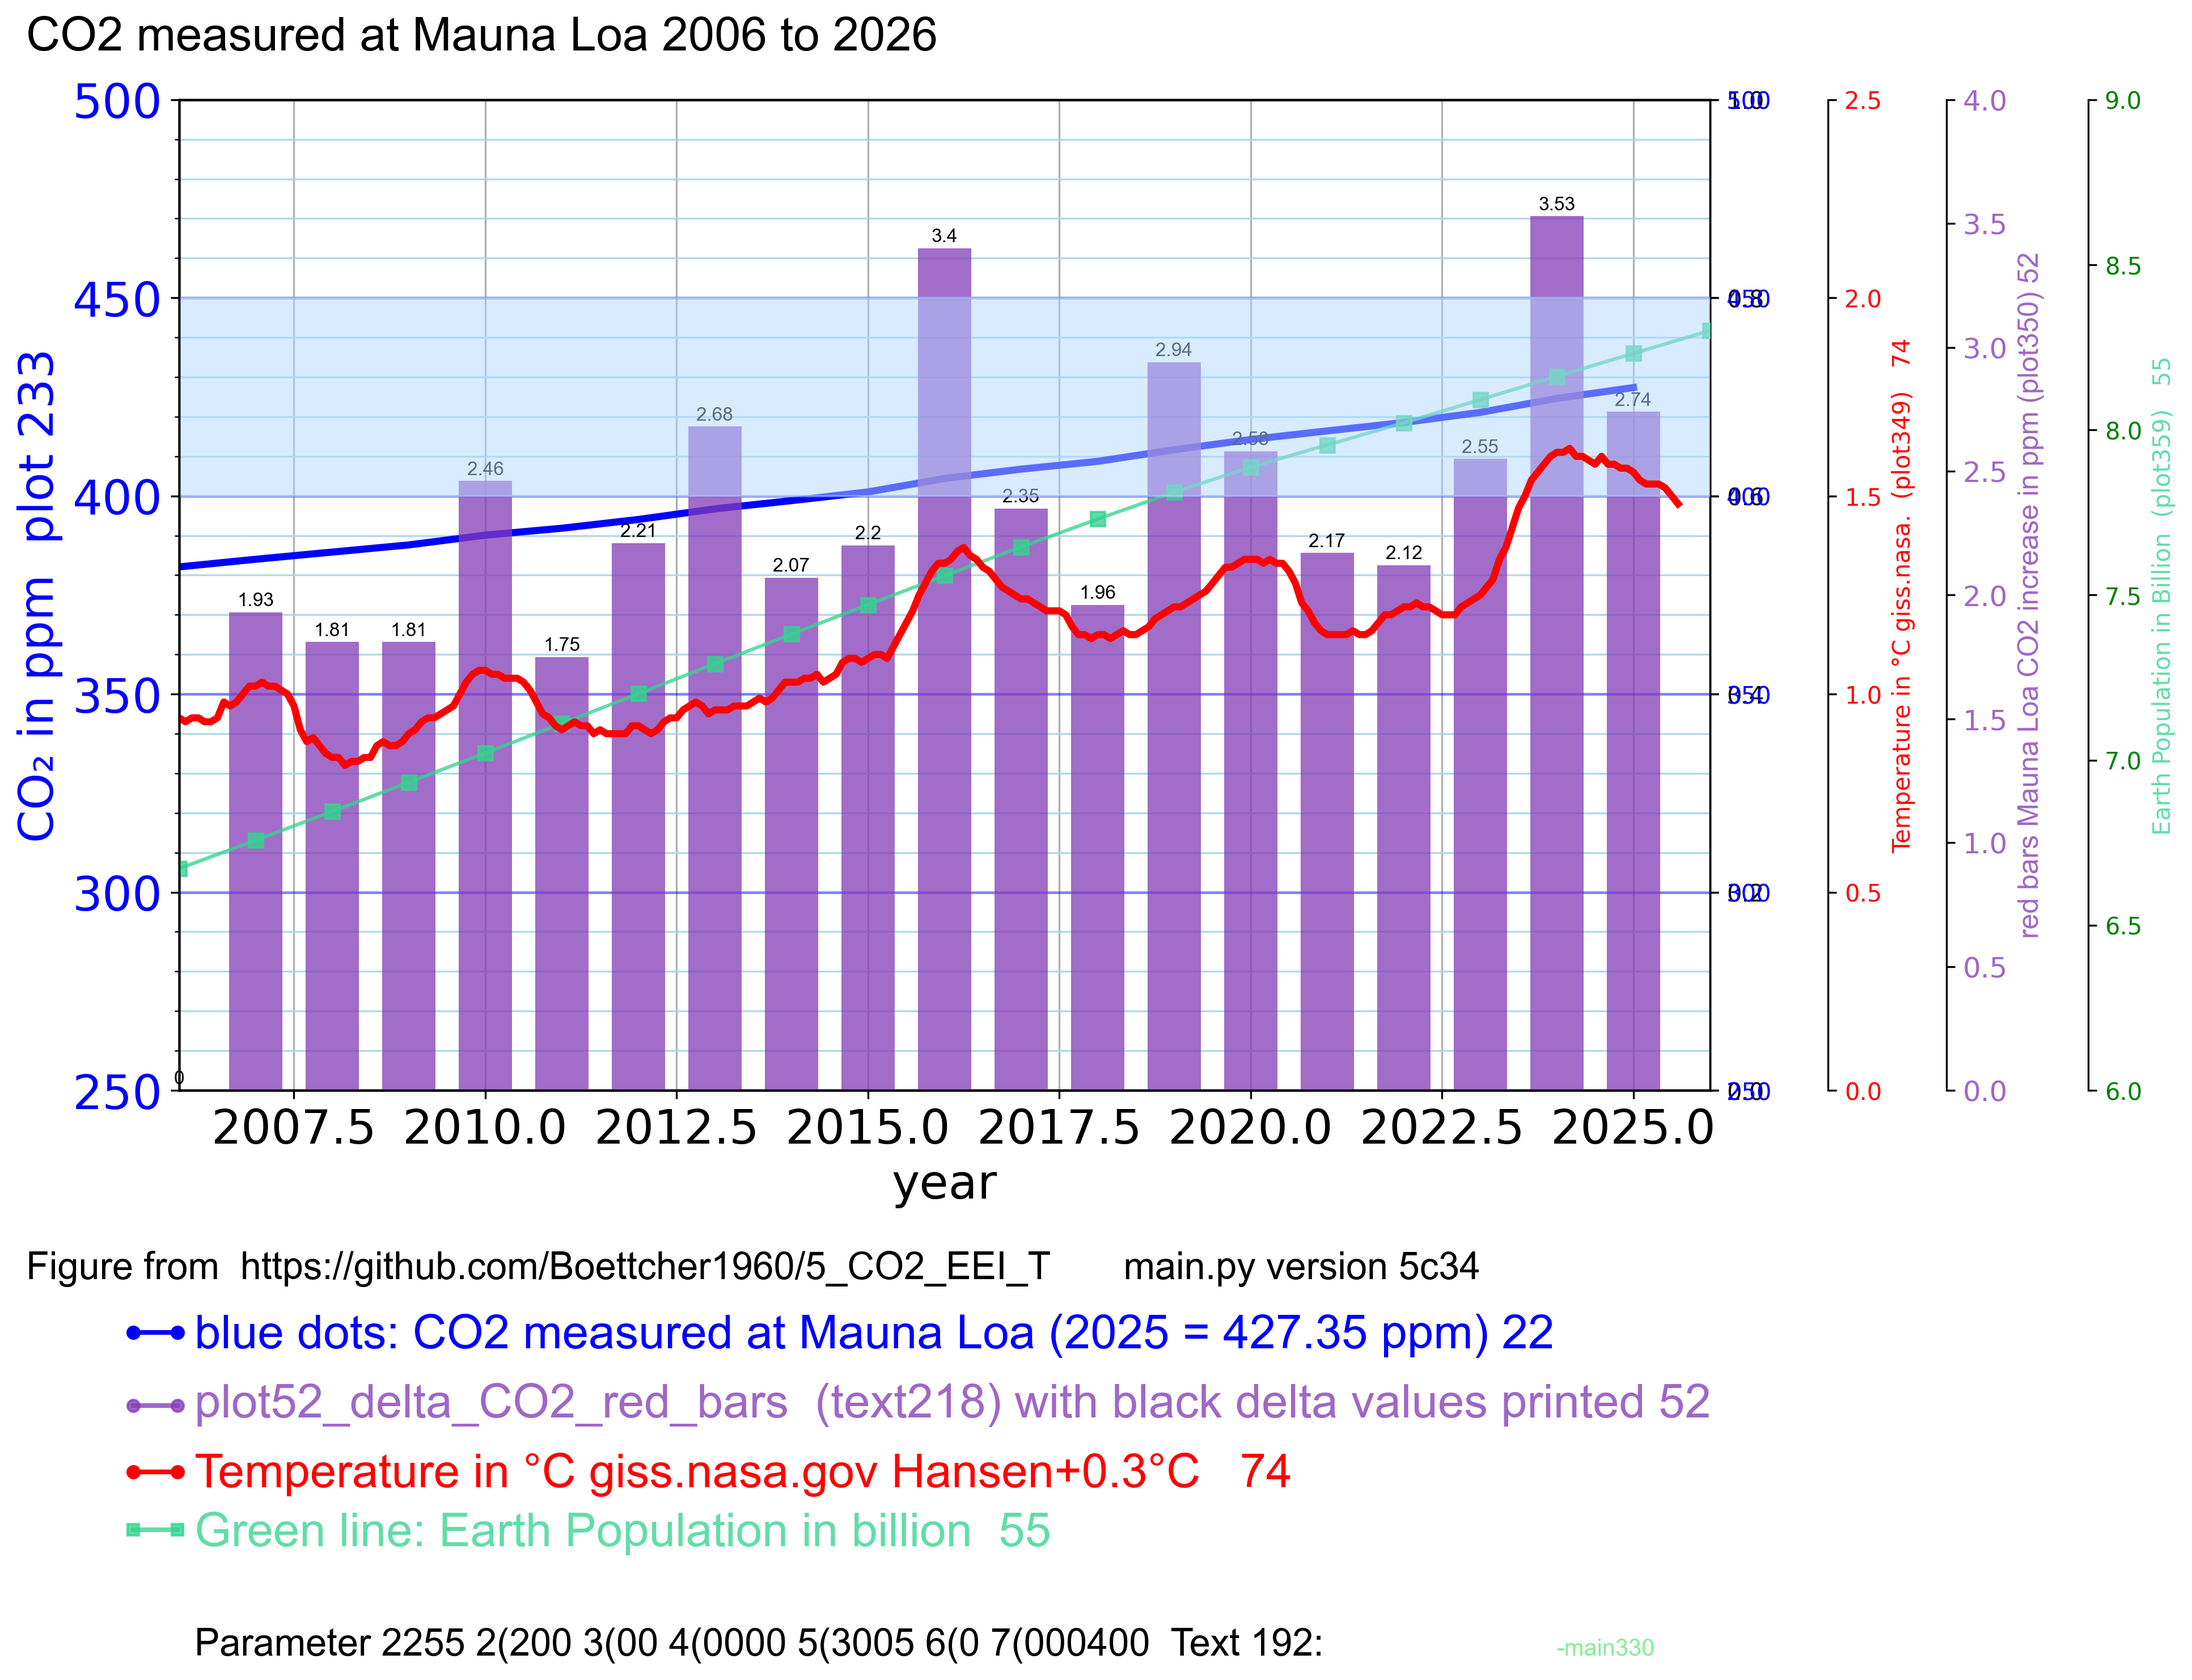
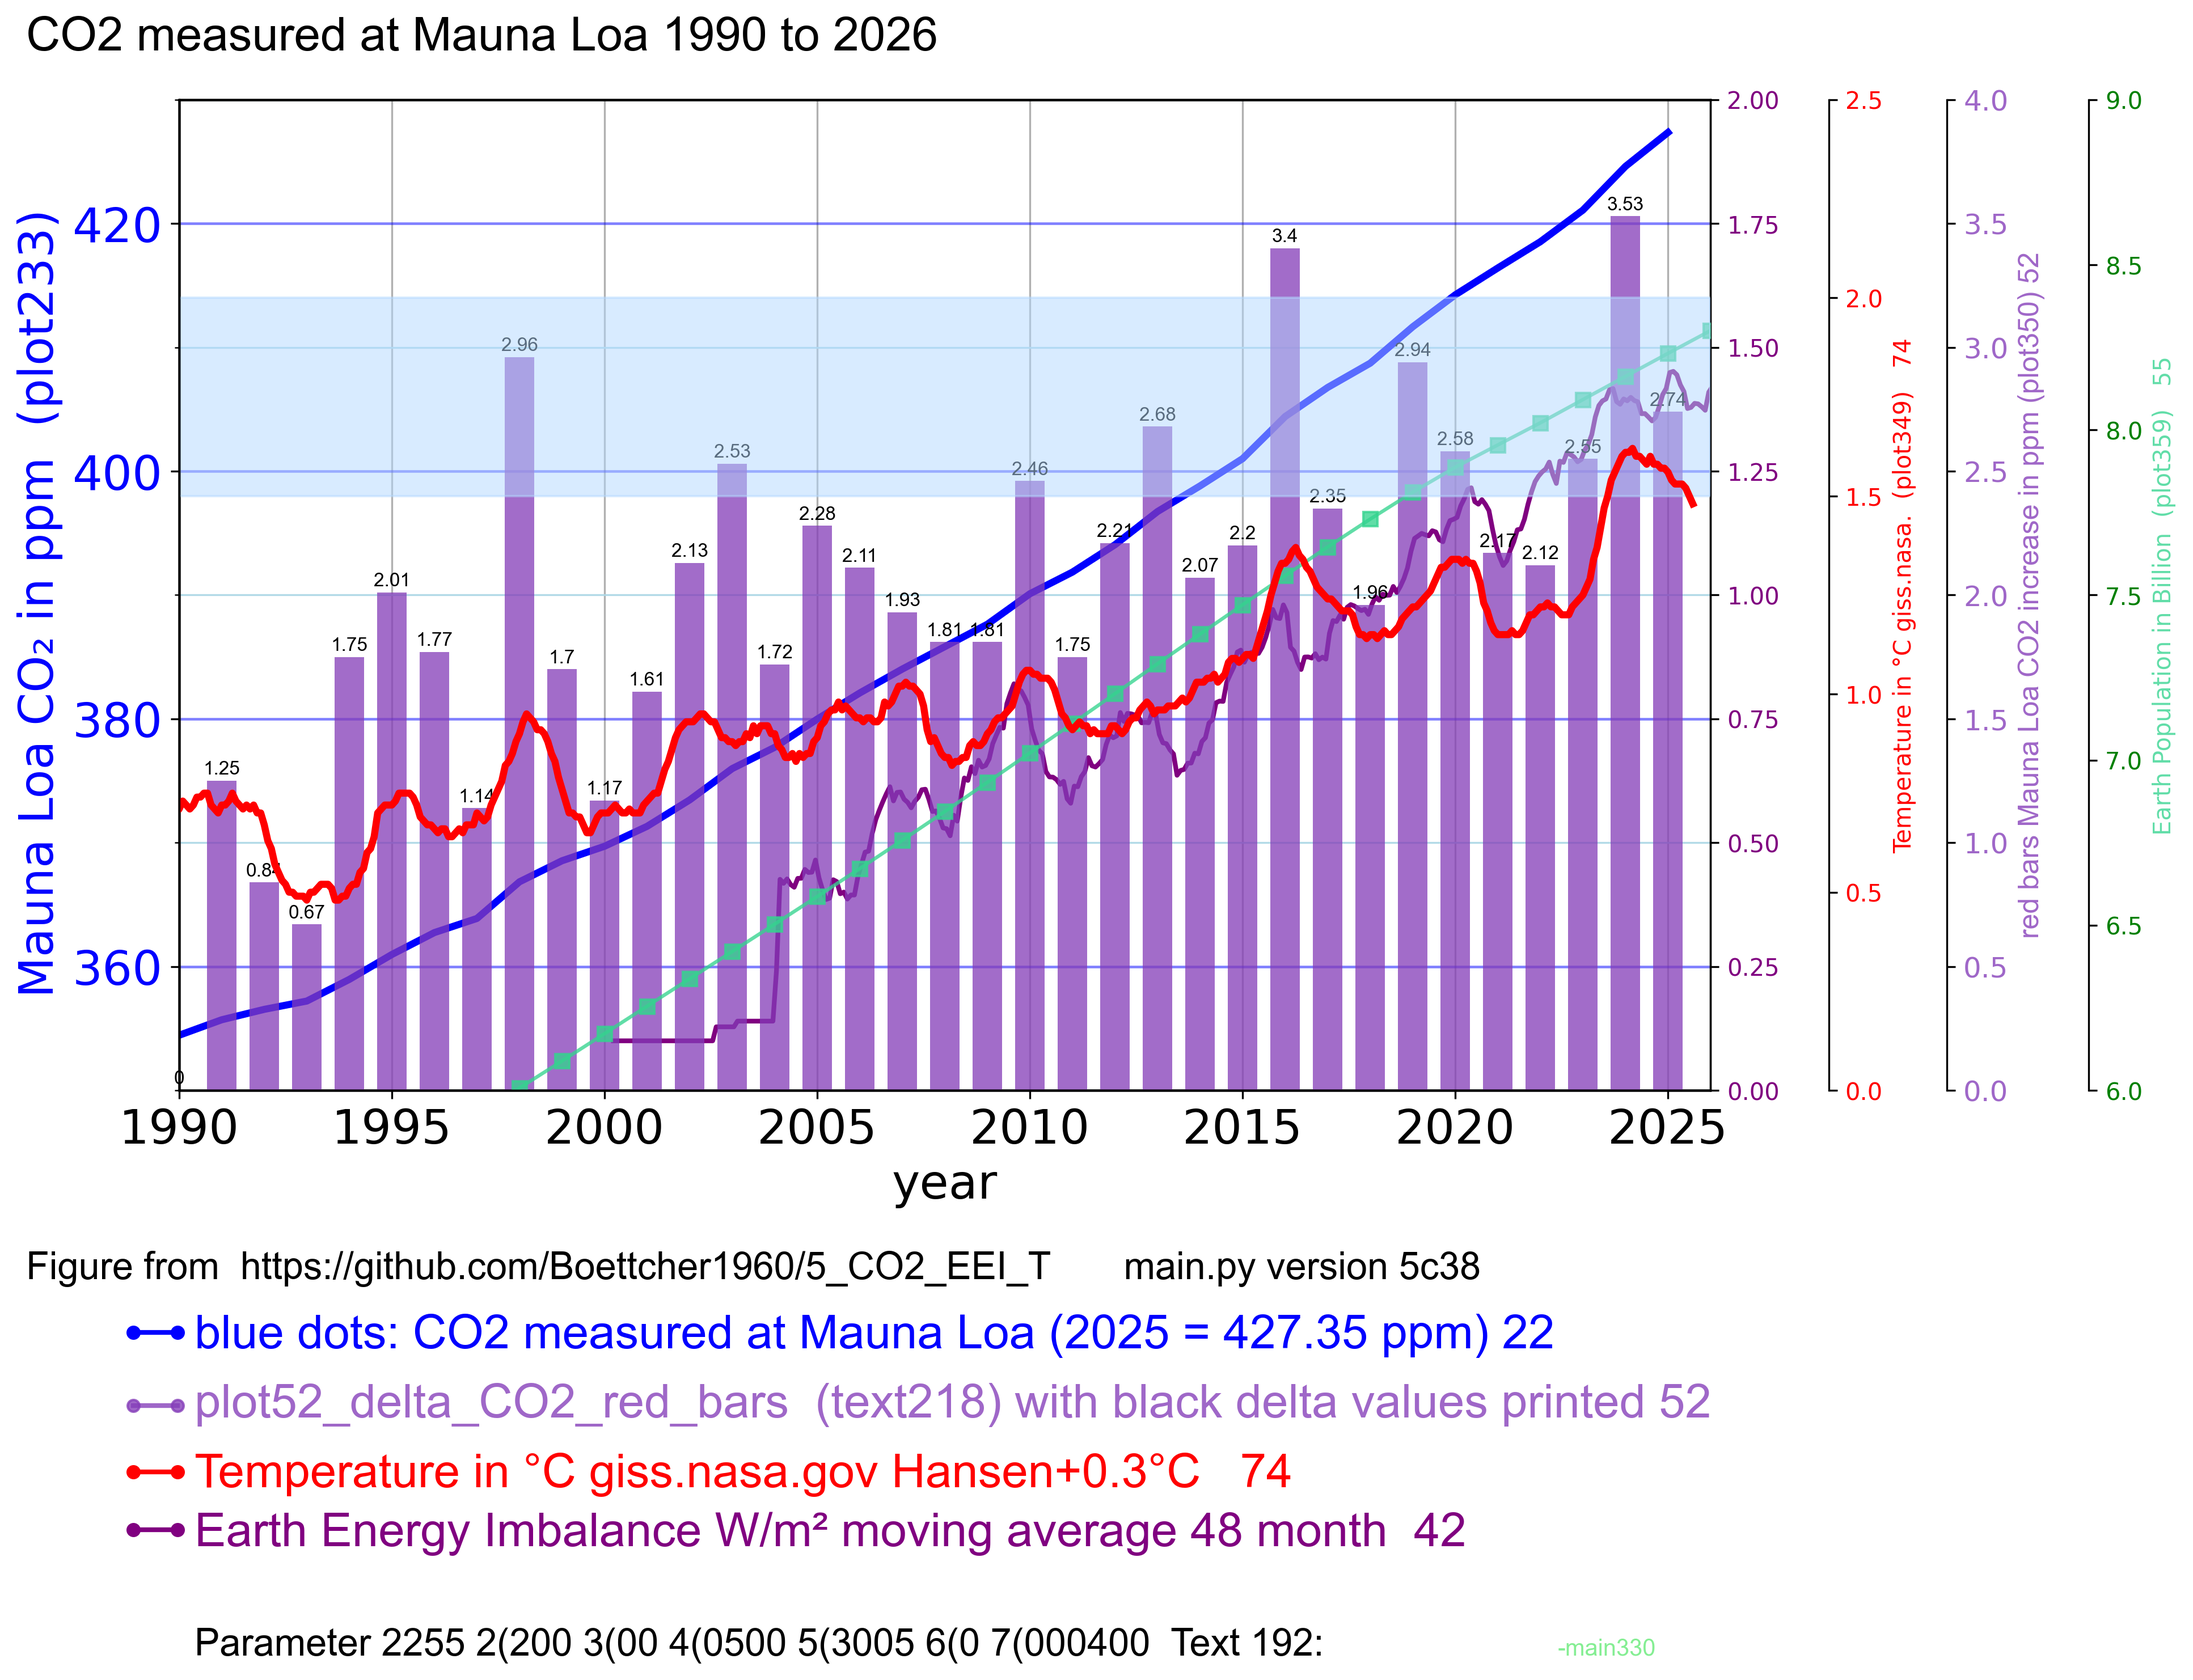
v = "5c40" # 74 plot Hansen GIS temperature 1880 2027

diff --git a/text.py b/text.py
@@ -277,6 +277,12 @@ def text_9_print_7_lines(fig, ax1, header_parameter):
         text_4_add_text(ax1, tr2x, tr5y, 
                     text_plot23_Glen, 
                     c23, trs)
+    elif part42_ceres_eei == 5:
+        text_3_add_legend_line(fig, lr2x1, lr2x2, lr5y, c42)
+        text_4_add_text(ax1, tr2x, tr5y, 
+                    "Earth Energy Imbalance W/m² moving average 48 month  42", 
+                    c42, trs)
+
     elif plot55_population_on == 5: # 55.4 row 5 legende world data plot22_CO2_Mauna_Loa
        line55 = Line2D([lr2x1, lr2x2], [lr5y, lr5y], # x coords in figure space (0–1)
        transform=fig.transFigure,

diff --git a/config.py b/config.py
@@ -49,7 +49,7 @@ plot34_CO2_emission_mode = 0 # 34.1 mode
 plot34_CO2 = 0
 
 part41_ceres_eei = 0  # print EEI 12 month running mean. Info in line 3 below the plot
-part42_ceres_eei = 0  # 3,4 print EEI 48 month running mean. Info in line 4 below the plot
+part42_ceres_eei = 5  # 3,4 print EEI 48 month running mean. Info in line 4 below the plot
 part43_ceres_eei = 0  # 43.1 2=left y axis 3,4 print EEI 12 month running mean.
 part44_ceres_eei = 0 # 47 is local 
 

diff --git a/plotting.py b/plotting.py
@@ -297,7 +297,7 @@ def plot_7_right_y_axe_remove(axes):
        axes[i].set_yticklabels([])  # Remove tick labels
        axes[i].spines['right'].set_visible(False)
        axes[i].set_ylabel('') # Remove any label
-       i = 1
+       i = 2
        print("plot_301: remove ", i, len(axes))
        axes[i].yaxis.set_ticks([])  # Remove tick numbers
        axes[i].set_yticklabels([])  # Remove tick labels

diff --git a/main.py b/main.py
@@ -1,6 +1,6 @@
 # main.py
 # part 1 configure 
-v = "5c38" # 74 plot Hansen GIS temperature 1880 2027
+v = "5c40" # 74 plot Hansen GIS temperature 1880 2027
 # part 5.3 plot53_CO2_orange2025
 # part 5.4 plot54_Glen_delta_on
 # part 5.5 plot55_population_on human earth population 
